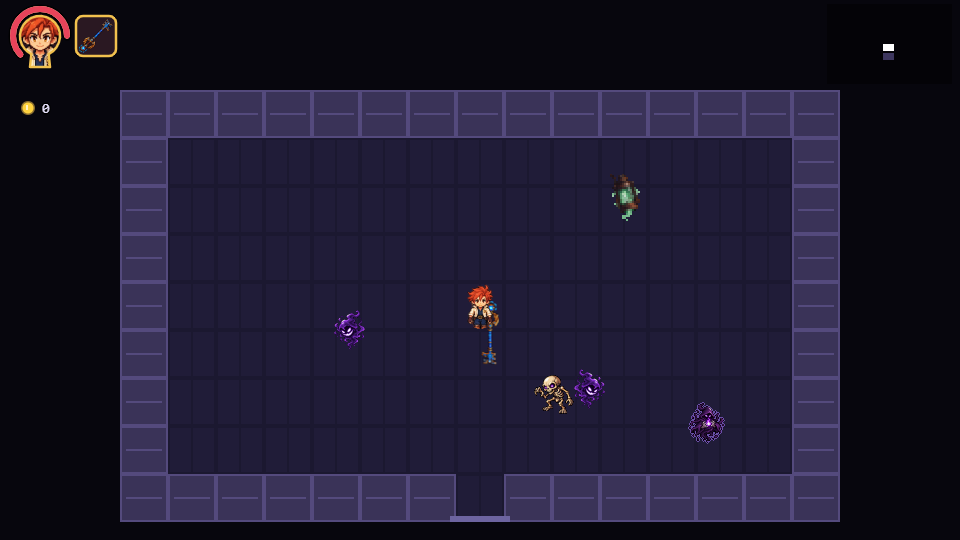
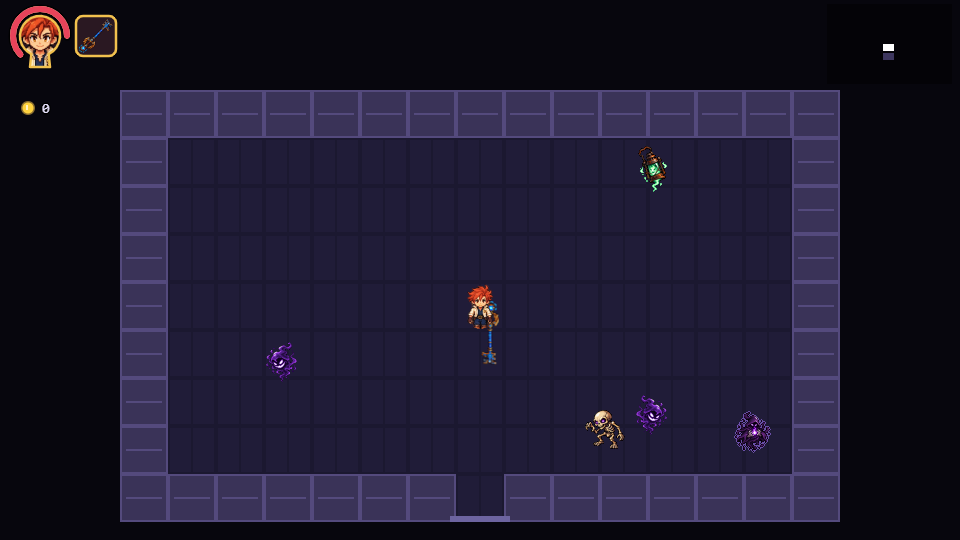
feat: update enemy frames and adjust fade opacity for sprites

diff --git a/src/combat/enemies.ts b/src/combat/enemies.ts
@@ -215,7 +215,7 @@ export const LANTERN: EnemyDef = {
   id: 'lantern',
   name: 'enemy.lantern',
   texture: 'lantern',
-  frames: 1,
+  frames: 3,
   hp: 10,
   hpGrowth: 0.15,
   speed: 60,
@@ -278,7 +278,7 @@ export const CRYSTAL_SENTINEL: EnemyDef = {
   id: 'crystal-sentinel',
   name: 'enemy.crystal-sentinel',
   texture: 'crystal-sentinel',
-  frames: 1,
+  frames: 3,
   hp: 20,
   hpGrowth: 0.15,
   speed: 80,
@@ -295,7 +295,7 @@ export const CRYSTAL_SHARD: EnemyDef = {
   id: 'crystal-shard',
   name: 'enemy.crystal-shard',
   texture: 'crystal-shard',
-  frames: 1,
+  frames: 3,
   hp: 4,
   hpGrowth: 0.15,
   speed: 165,
@@ -312,7 +312,7 @@ export const CRYSTAL_SEER: EnemyDef = {
   id: 'crystal-seer',
   name: 'enemy.crystal-seer',
   texture: 'crystal-seer',
-  frames: 1,
+  frames: 3,
   hp: 10,
   hpGrowth: 0.15,
   speed: 75,
@@ -341,7 +341,7 @@ export const CRYSTAL_SPIKE: EnemyDef = {
   id: 'crystal-spike',
   name: 'enemy.crystal-spike',
   texture: 'crystal-spike',
-  frames: 1,
+  frames: 3,
   hp: 16,
   hpGrowth: 0.15,
   speed: 0,

diff --git a/src/wiki/sprites.ts b/src/wiki/sprites.ts
@@ -6,7 +6,8 @@ import { type Item, baseId } from '../combat/stats';
 /** Art is drawn at whole multiples so the pixels stay square. */
 const ZOOM = 2;
 
-const FADE_OPACITY = { shown: 1, fading: 0.55, hidden: 0.12, appearing: 0.55 } as const;
+/** Never fully gone, unlike in the game: the reader still has to find it on the page. */
+const FADE_OPACITY = { shown: 1, fading: 0.65, hidden: 0.35, appearing: 0.65 } as const;
 
 /** Prefix a public asset path with Vite’s deployment base so subpath hosting works. */
 const asset = (path: string) => `${import.meta.env.BASE_URL}${path}`;
